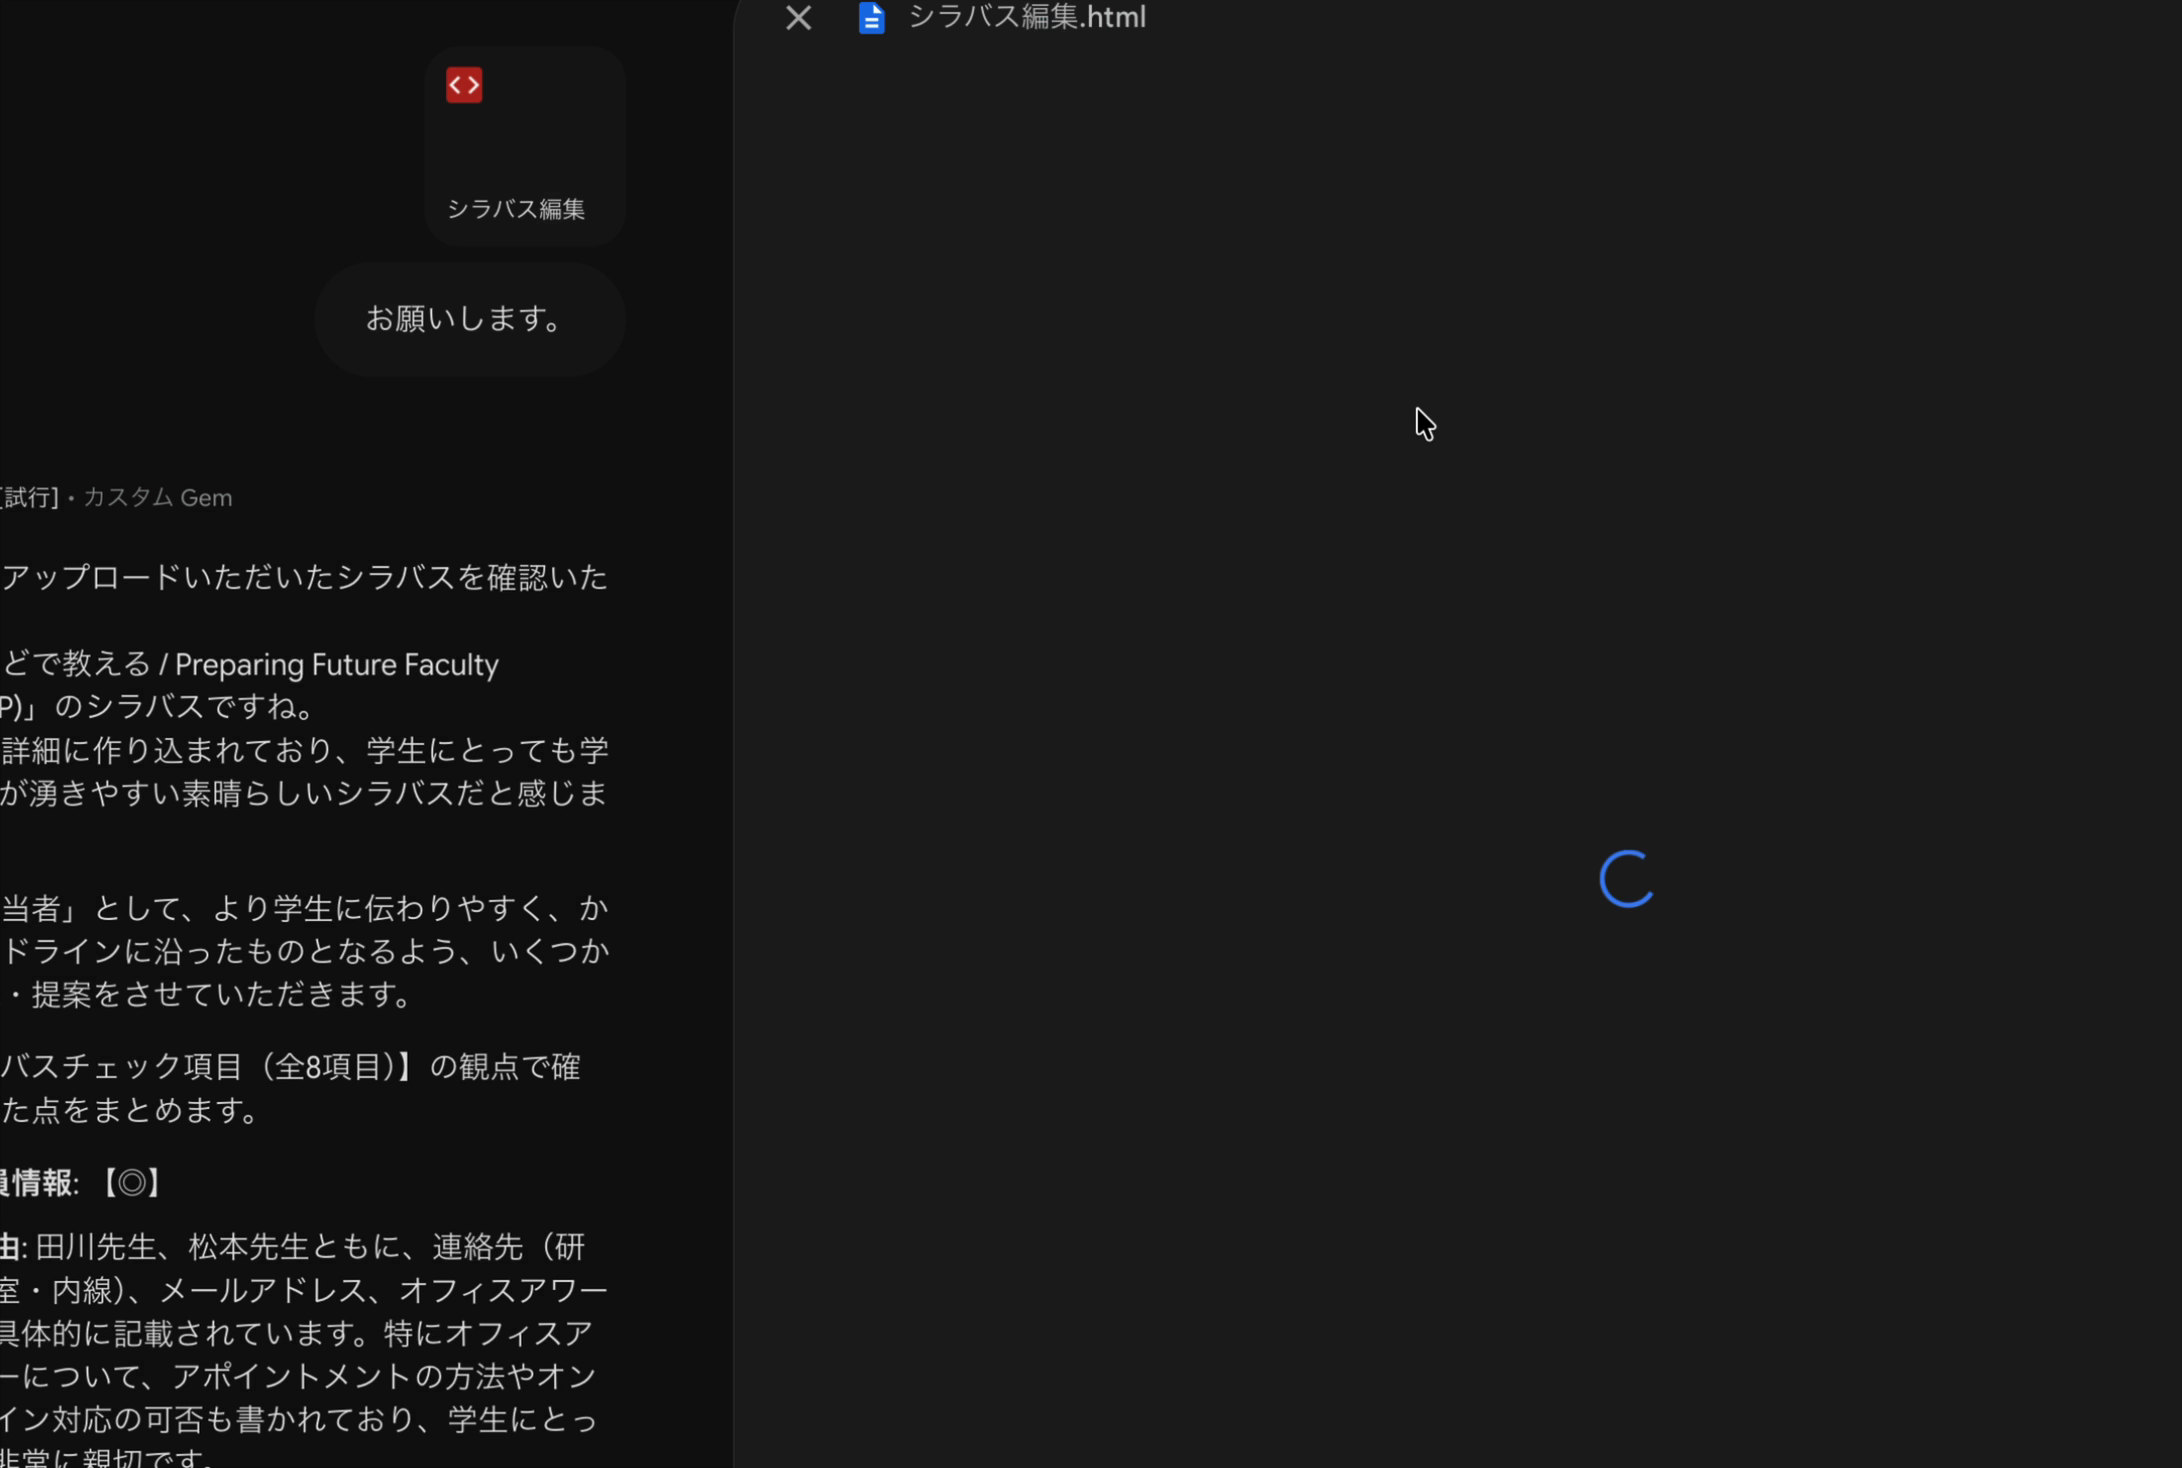
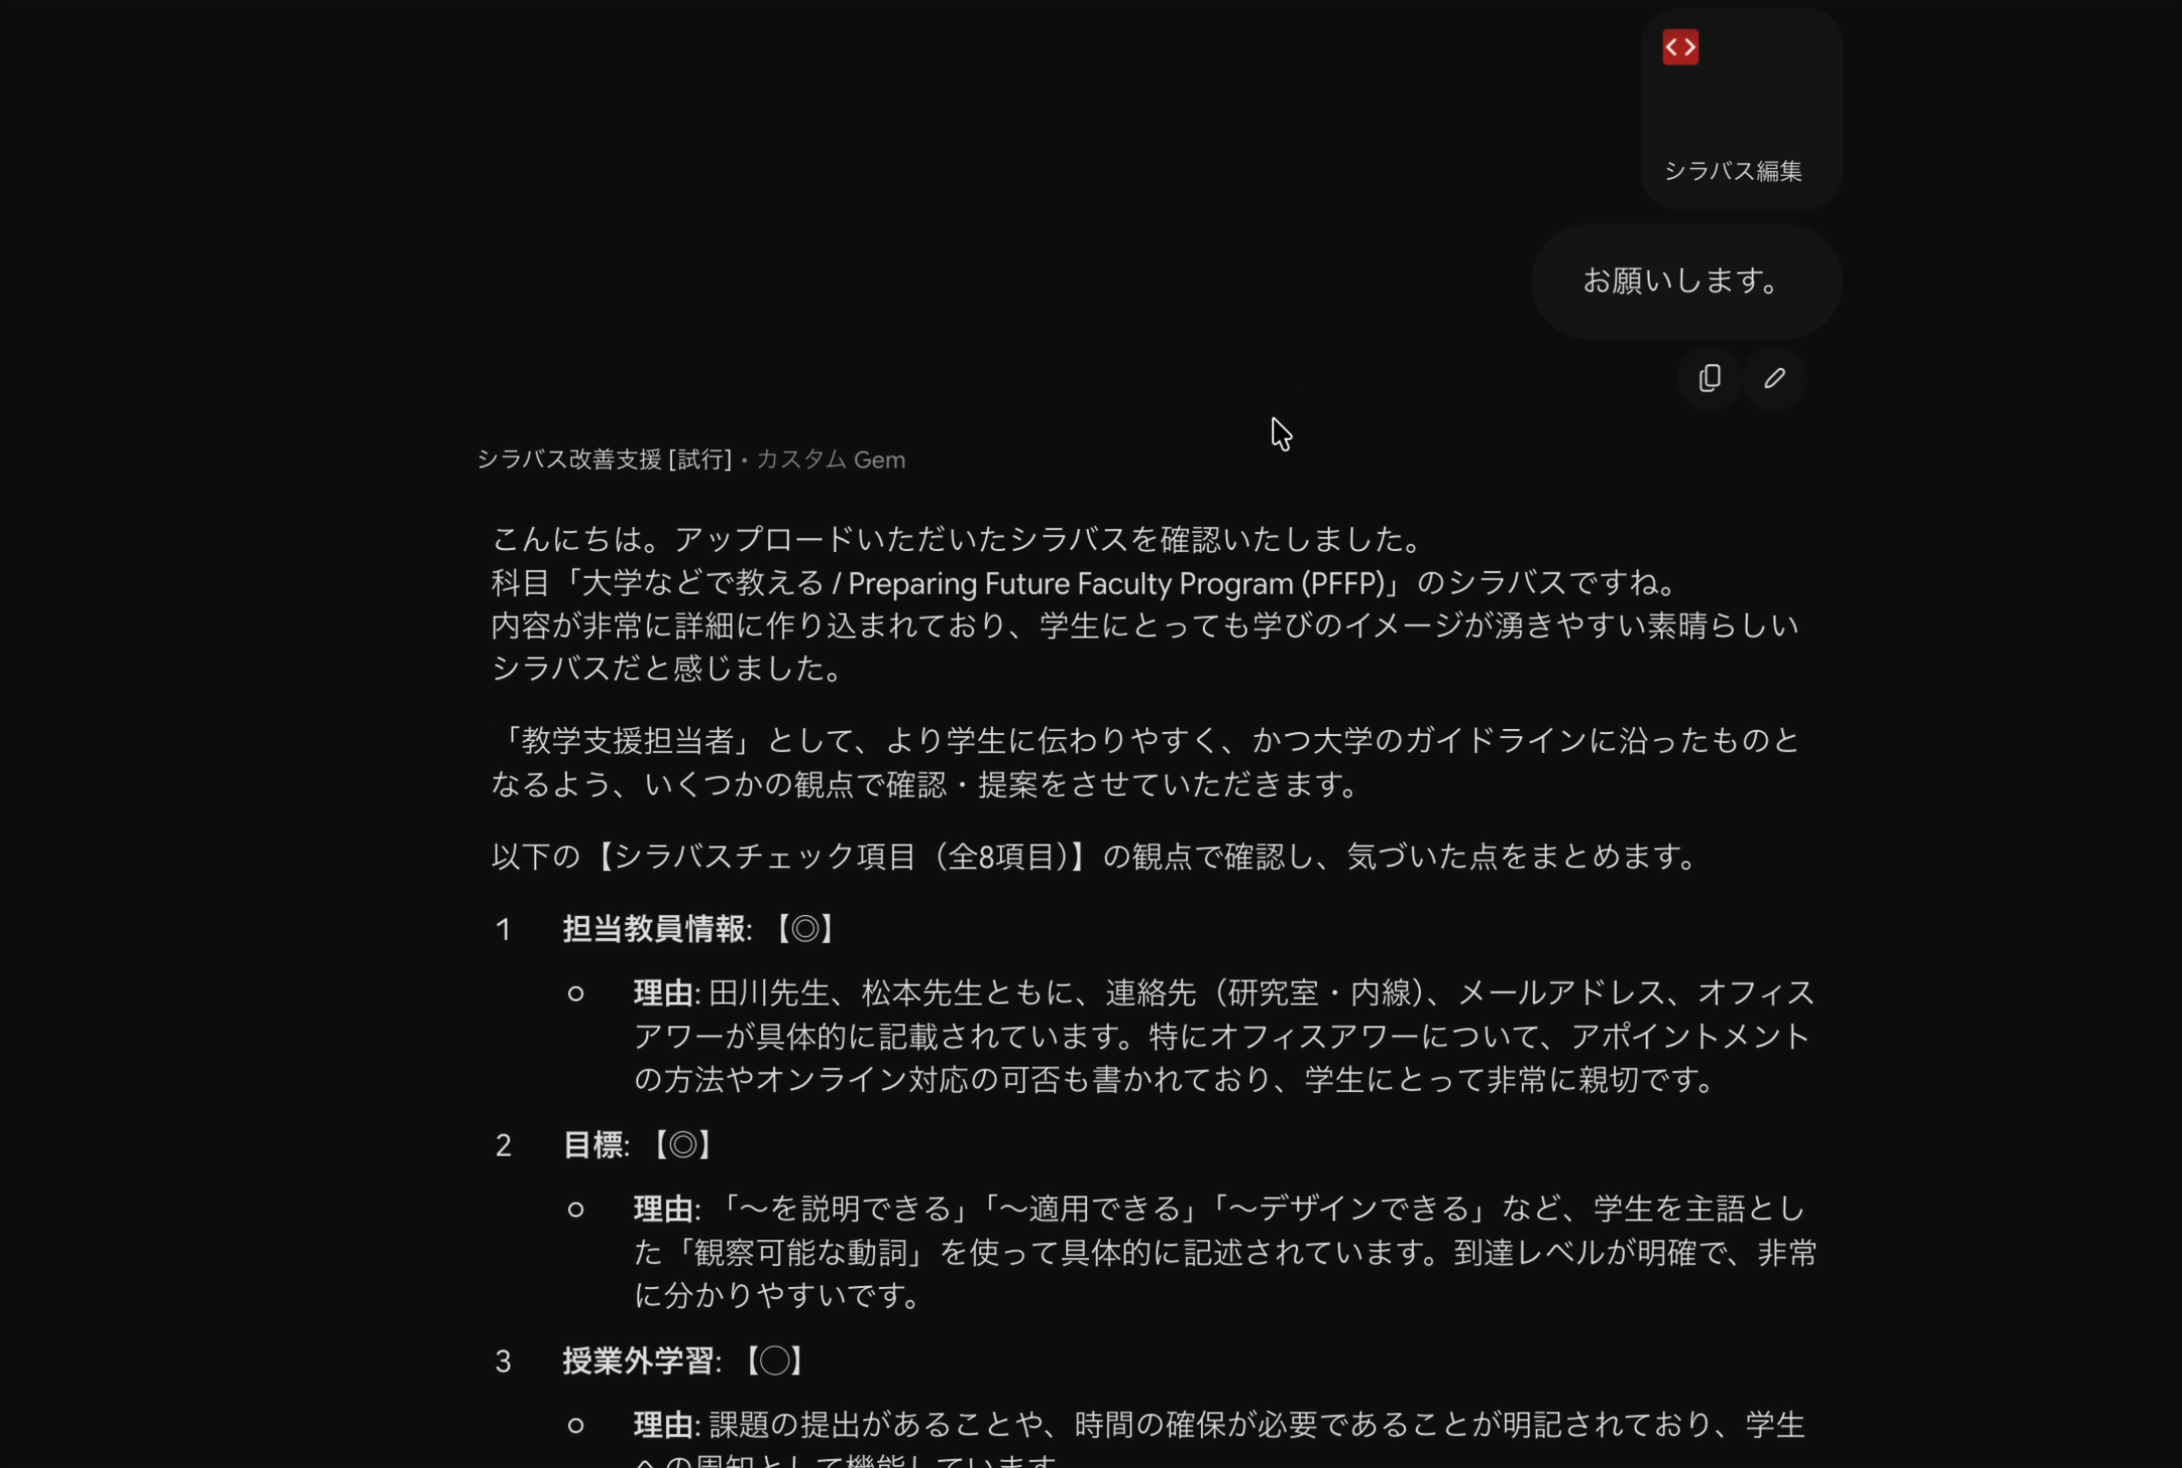
minor update

diff --git a/slides/20260519_ALC_1210_AI-function/20260519_ALC_1210_AI-function.md b/slides/20260519_ALC_1210_AI-function/20260519_ALC_1210_AI-function.md
@@ -1375,7 +1375,7 @@ Arizona State Univ.等で**教育効果を実証**
 - **Decide**：採用／修正／棄却を決める
 - **Act**：使う、または再プロンプト
 
-### 積上げ式に学ぶ発想は、AIの学習には合わない
+### 積上げ式はAI agentの学習にたぶん合わない
 - まずは使って、使えるか判断する
 - 自分が評価できるようになることが大切
   - 活用は、評価できる範囲で行う
